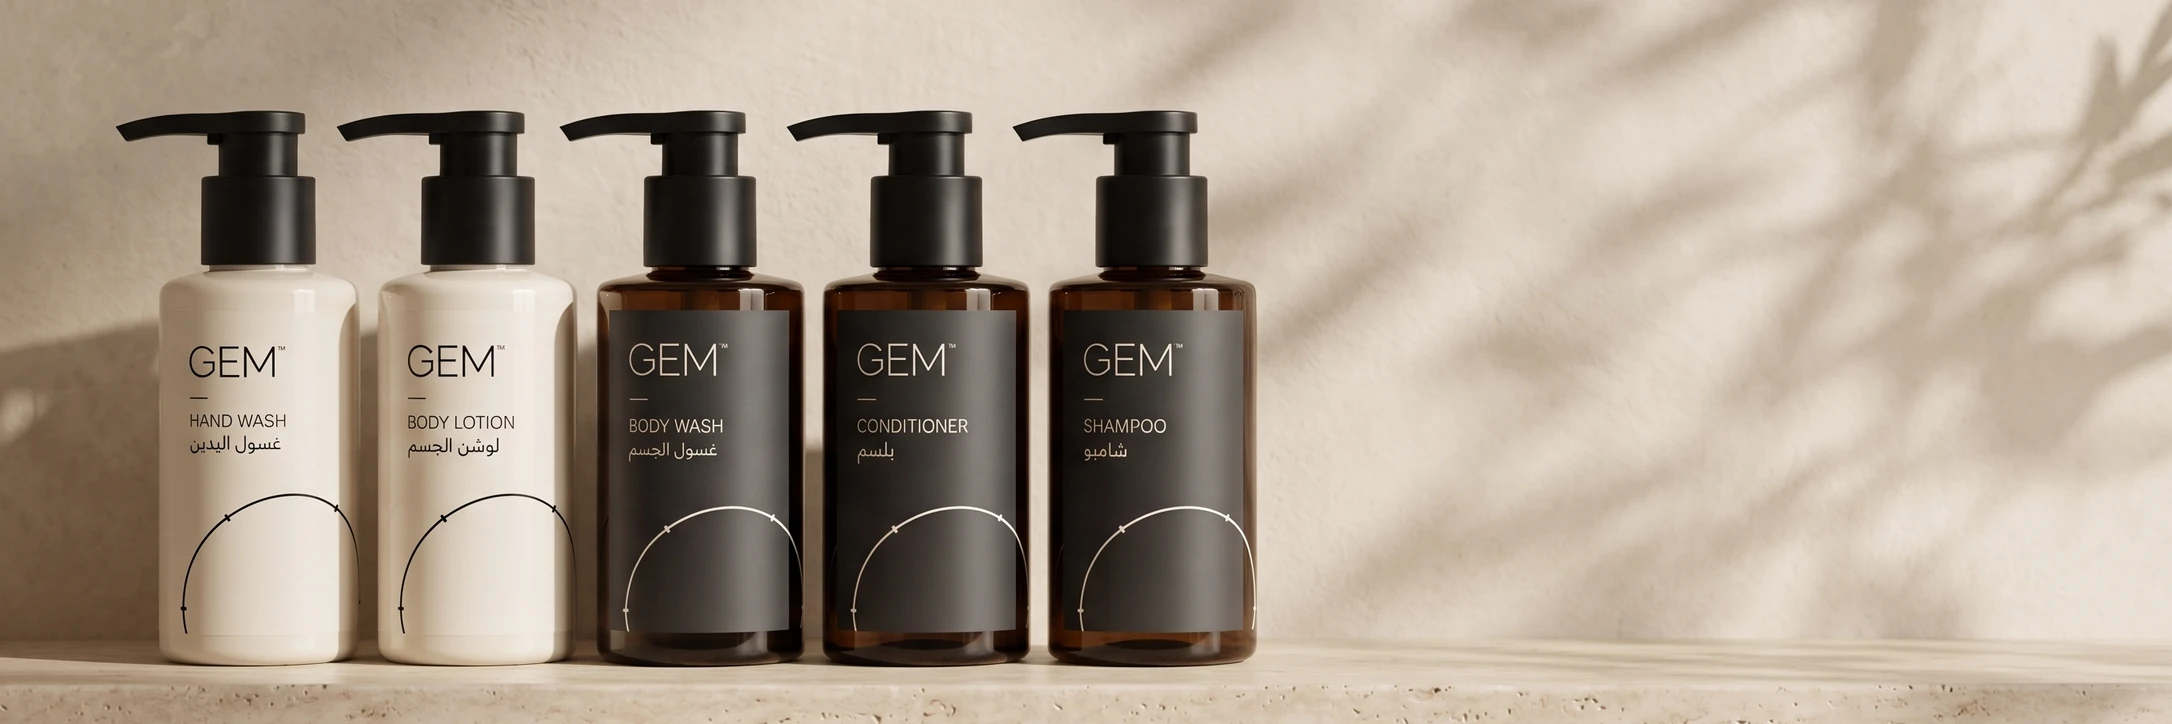
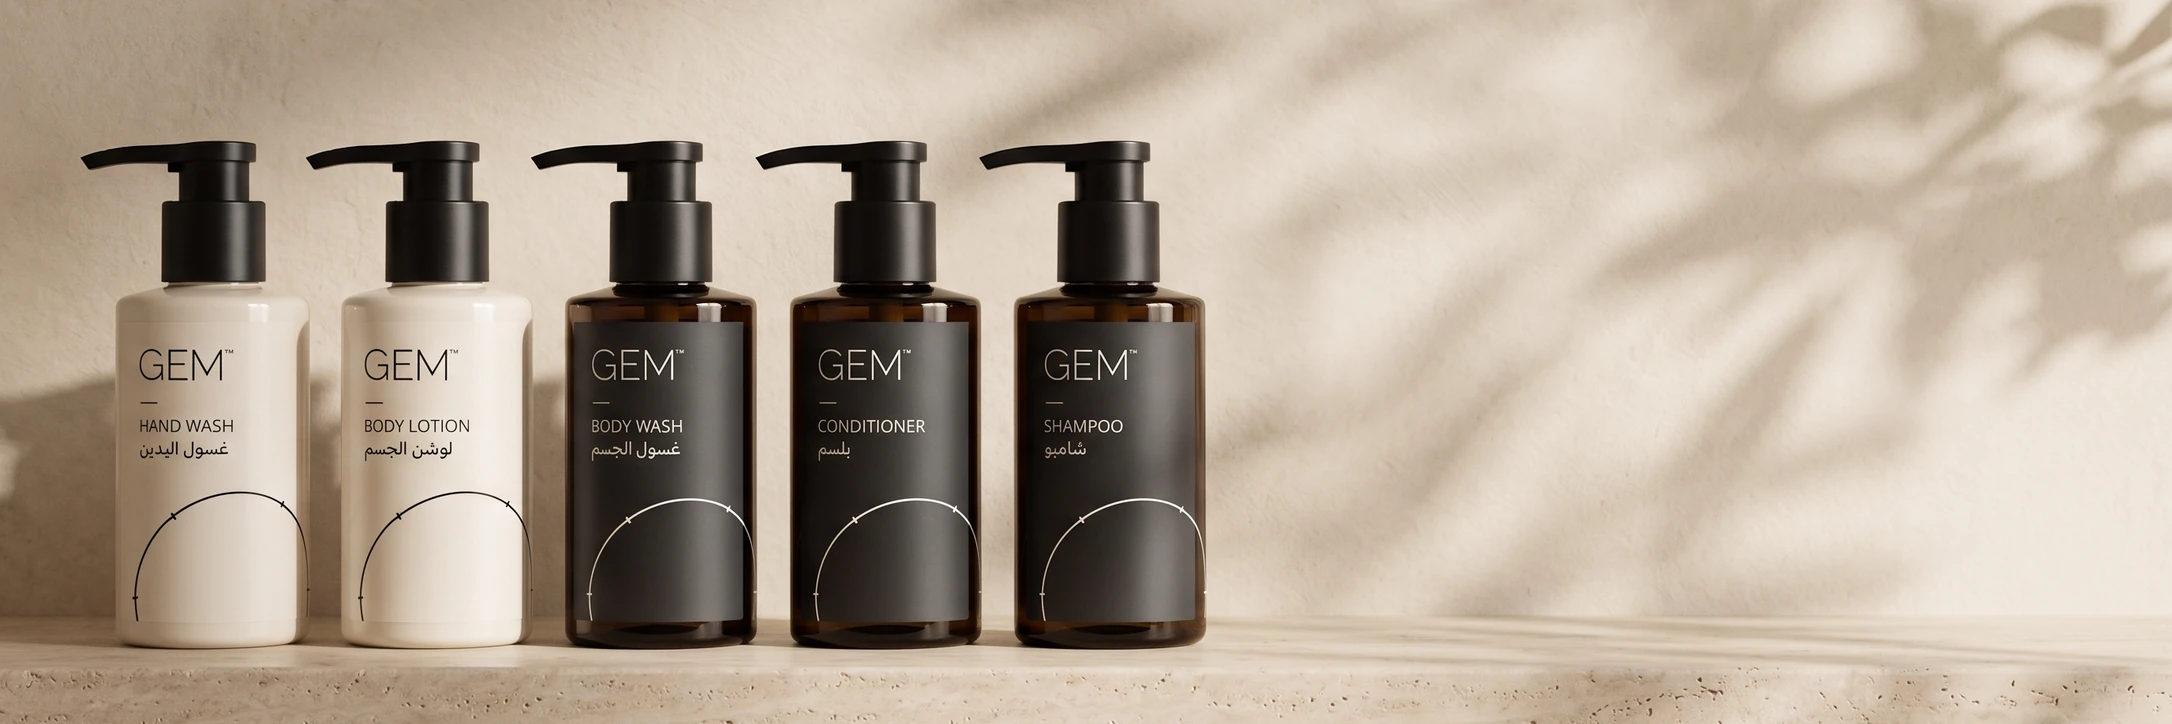
feat: pulled-back V02 RTL candidate with correct framing
All four brand-aligned candidates now exist (V02 LTR/RTL, V03 with lockup
band, V09). Not shipped; owner approval pending. Validator 0 failures.

diff --git a/website/records/visual-replacements-20261030/README.md b/website/records/visual-replacements-20261030/README.md
@@ -12,7 +12,7 @@
 | Candidate | Result |
 |---|---|
 | `family-candidate` (V02 LTR, 2172×724) | **Second, pulled-back generation** (`generated/v02-family-ltr-v2-pulledback-gemini-raw.jpeg`, downloaded by the owner from the Gemini chat). Order, colours, pumps, labels and Arabic names correct; bottles about 38% to 79% of the height with clear wall above and a visible shelf; left 40% empty. The first generation (`v02-family-ltr-gemini-raw.jpeg`) is kept but its bottles filled about 85% of the crop. |
-| `family-rtl-candidate` (V02 RTL, 2172×724) | Reversed order, labels not mirrored, light from the right, correct colours. Same framing issue. |
+| `family-rtl-candidate` (V02 RTL, 2172×724) | **Second, pulled-back generation** (`generated/v02-family-rtl-v2-pulledback-gemini-raw.jpeg`). Reversed order, labels not mirrored, correct colours and pumps, bottles about 39% to 80% of the height, right 40% empty, light from the right. The first RTL generation is kept in `generated/` but its framing was too tight. |
 | `social-candidate` (V03, 1200×630) | Five bottles correct, one fully visible card, no clipped wordmark, GEM logo lockup band restored in the bottom 92 px (ivory `#F8F3EA`, `static/logo-ink.svg`). |
 | `format-wall-candidate` (V09, 1536×1024) | Body Wash correct, bracket and full pump visible, wall now a pale desaturated ivory travertine. 480/960 WebP exports not yet made. |
 | `tx-arches` | Unchanged; no brand conflict. |
@@ -24,8 +24,8 @@ Limits: colour was judged visually, not measured. Wall and shelf tones sit withi
 |---|---|
[8 lines of base64/hex data omitted]
 
